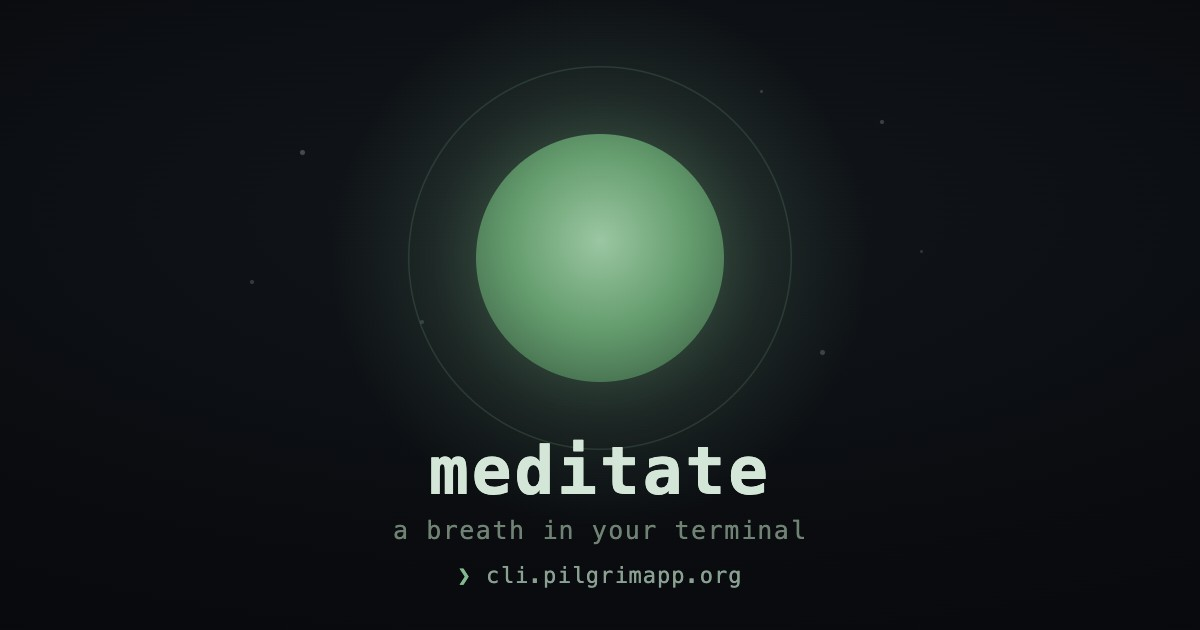
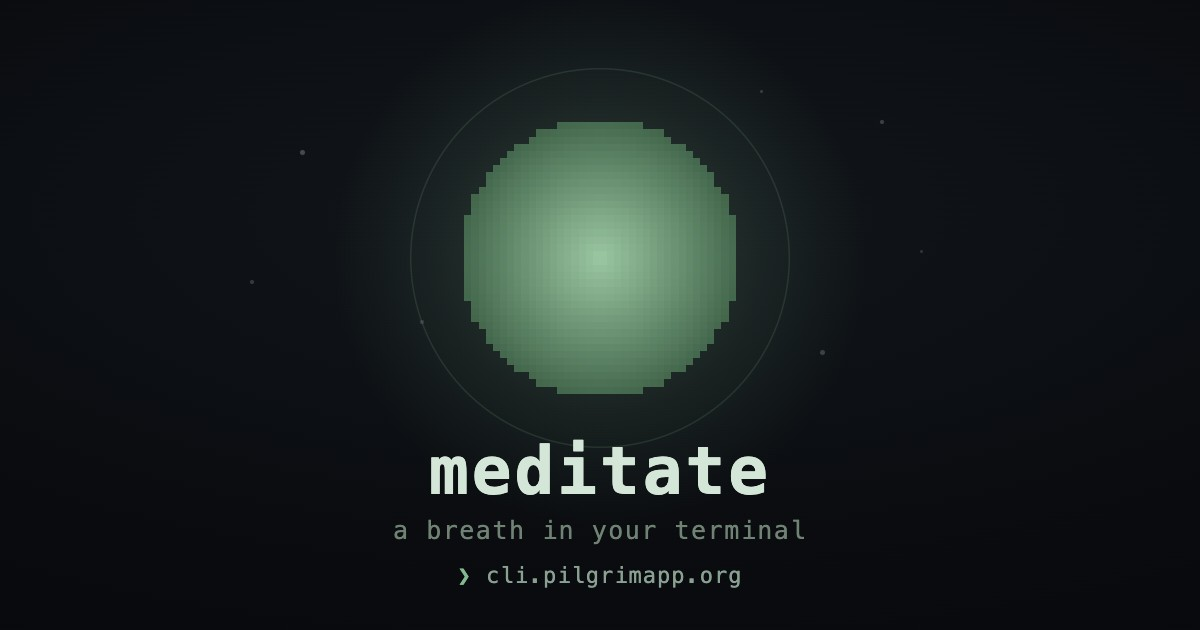
feat(web): pixelated orb on the OG share card
Swap the social card's smooth orb for the half-block, "pixelated" orb the
terminal actually boots into — so the share preview matches the default
in-app look and reads instantly as a terminal. Still 1200×630 JPEG (~37KB,
WhatsApp-safe). Adds web/scripts/og-pixel.html as the reproducible source.

Changed region(s): [[0.37, 0.181, 0.6167, 0.6333]]

diff --git a/web/scripts/og-pixel.html b/web/scripts/og-pixel.html
@@ -1,0 +1,161 @@
+<!doctype html>
+<!--
+  Source for the pixelated Open Graph / social share card — the half-block orb
+  look that meditate boots into by default. Render at 1200×630 and save to
+  web/public/og.jpg: serve this dir, open in a browser sized 1200×630, screenshot.
+-->
+<html lang="en">
+  <head>
+    <meta charset="utf-8" />
+    <style>
+      * {
+        margin: 0;
+        padding: 0;
+        box-sizing: border-box;
+      }
+      html,
+      body {
+        width: 1200px;
+        height: 630px;
+        overflow: hidden;
+      }
+      body {
+        position: relative;
+        background:
+          radial-gradient(130% 100% at 50% 34%, #12171b 0%, #0a0c10 52%, #06070a 100%);
+        font-family: "SF Mono", "JetBrains Mono", "Menlo", "DejaVu Sans Mono", monospace;
+        color: #cfe3d4;
+      }
+
+      /* ── the orb ───────────────────────────────────────────────────────── */
+      .orb-halo {
+        position: absolute;
+        left: 600px;
+        top: 258px;
+        width: 560px;
+        height: 560px;
+        transform: translate(-50%, -50%);
+        background: radial-gradient(
+          circle,
+          rgba(124, 179, 137, 0.36) 0%,
+          rgba(124, 179, 137, 0.12) 42%,
+          rgba(124, 179, 137, 0) 68%
+        );
+      }
+      .orb-ring {
+        position: absolute;
+        left: 600px;
+        top: 258px;
+        width: 384px;
+        height: 384px;
+        transform: translate(-50%, -50%);
+        border: 1.5px solid rgba(140, 196, 152, 0.16);
+        border-radius: 50%;
+      }
+      /* A low-res canvas scaled up with nearest-neighbour, so each cell reads as
+         a crisp block — the same chunky orb the terminal paints with ▀ glyphs. */
+      #orb {
+        position: absolute;
+        left: 600px;
+        top: 258px;
+        width: 300px;
+        height: 300px;
+        transform: translate(-50%, -50%);
+        image-rendering: pixelated;
+      }
+
+      .particle {
+        position: absolute;
+        border-radius: 50%;
+        background: rgba(216, 224, 214, 0.55);
+        filter: blur(0.4px);
+      }
+
+      /* ── text ──────────────────────────────────────────────────────────── */
+      .wordmark {
+        position: absolute;
+        top: 432px;
+        left: 0;
+        right: 0;
+        text-align: center;
+        font-size: 66px;
+        font-weight: 600;
+        letter-spacing: 3px;
+        color: #d4e6d8;
+      }
+      .tagline {
+        position: absolute;
+        top: 516px;
+        left: 0;
+        right: 0;
+        text-align: center;
+        font-size: 25px;
+        letter-spacing: 1.5px;
+        color: #6f8274;
+      }
+      .url {
+        position: absolute;
+        bottom: 42px;
+        left: 0;
+        right: 0;
+        text-align: center;
+        font-size: 22px;
+        letter-spacing: 1px;
+        color: #4f5d54;
+      }
+      .url .prompt {
+        color: #84b890;
+      }
+      .url .host {
+        color: #8aa092;
+      }
+    </style>
+  </head>
+  <body>
+    <div class="orb-halo"></div>
+    <div class="orb-ring"></div>
+    <canvas id="orb" width="44" height="44"></canvas>
+
+    <div class="particle" style="left: 300px; top: 150px; width: 5px; height: 5px; opacity: 0.5"></div>
+    <div class="particle" style="left: 880px; top: 120px; width: 4px; height: 4px; opacity: 0.4"></div>
+    <div class="particle" style="left: 760px; top: 90px; width: 3px; height: 3px; opacity: 0.35"></div>
+    <div class="particle" style="left: 420px; top: 320px; width: 4px; height: 4px; opacity: 0.3"></div>
+    <div class="particle" style="left: 820px; top: 350px; width: 5px; height: 5px; opacity: 0.4"></div>
+    <div class="particle" style="left: 920px; top: 250px; width: 3px; height: 3px; opacity: 0.3"></div>
+    <div class="particle" style="left: 250px; top: 280px; width: 4px; height: 4px; opacity: 0.35"></div>
+
+    <div class="wordmark">meditate</div>
+    <div class="tagline">a breath in your terminal</div>
+    <div class="url"><span class="prompt">❯</span> <span class="host">cli.pilgrimapp.org</span></div>
+
+    <script>
+      // Paint the orb a pixel at a time: a moss gradient from a bright core to a
+      // deep edge, plus a soft inner highlight — the same body the Rust renderer
+      // lerps across its ▀ cells (crates/meditate-core/src/render/orb.rs).
+      const canvas = document.getElementById('orb');
+      const ctx = canvas.getContext('2d');
+      const N = canvas.width;
+      const R = N / 2;
+      const core = [0x9b, 0xc7, 0xa2];
+      const edge = [0x34, 0x56, 0x3d];
+      const highlight = [0xc6, 0xe4, 0xc9];
+      for (let py = 0; py < N; py++) {
+        for (let px = 0; px < N; px++) {
+          const dx = px + 0.5 - R;
+          const dy = py + 0.5 - R;
+          const d = Math.sqrt(dx * dx + dy * dy);
+          if (d > R) continue;
+          const t = d / R;
+          const ch = (i) => Math.round(core[i] + (edge[i] - core[i]) * (t * 0.85));
+          let r = ch(0), g = ch(1), b = ch(2);
+          const inner = Math.max(0, 1 - d / (R * 0.5)) * 0.45;
+          r = Math.round(r + (highlight[0] - r) * inner);
+          g = Math.round(g + (highlight[1] - g) * inner);
+          b = Math.round(b + (highlight[2] - b) * inner);
+          ctx.fillStyle = `rgb(${r}, ${g}, ${b})`;
+          ctx.fillRect(px, py, 1, 1);
+        }
+      }
+    </script>
+  </body>
+</html>